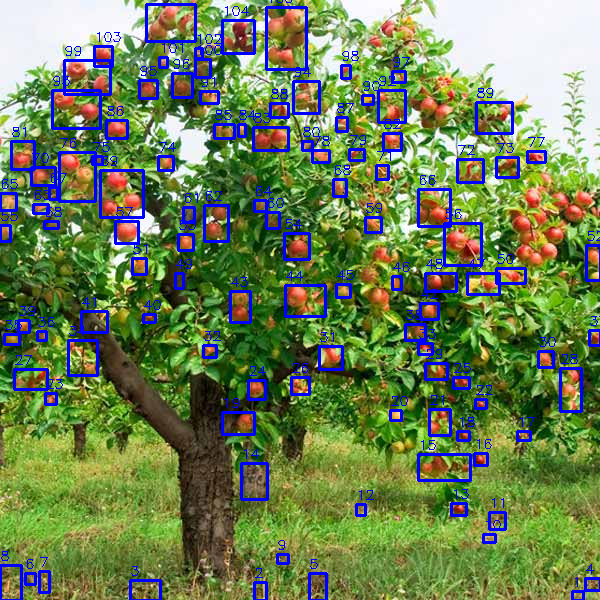
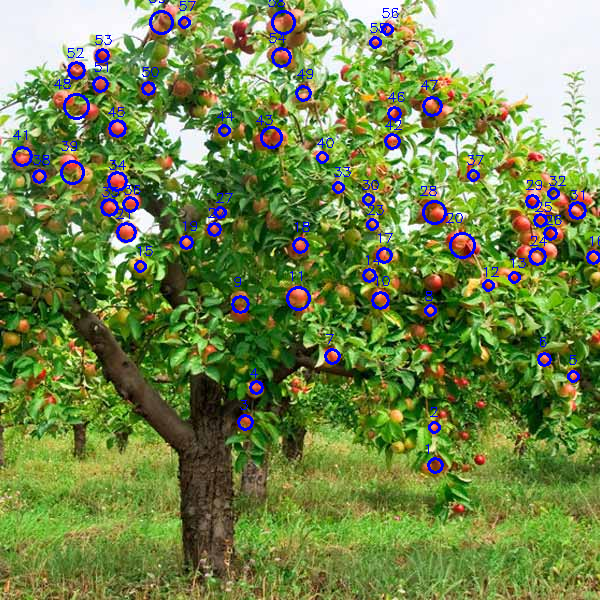
Upd

diff --git a/LAB_5/lab5_2_DS.py b/LAB_5/lab5_2_DS.py
@@ -4,13 +4,21 @@ import numpy as np
 
 IMAGE_PATH = "apple.jpg"
 
-OUTPUT_MASK = "apples_mask_counting.png"
+OUTPUT_CLUSTERED = "clustered_image.png"
+OUTPUT_APPLES_MASK = "apples_mask.png"
+OUTPUT_APPLES_SELECTED = "apples_selected.png"
 OUTPUT_RESULT = "apples_counted_result.png"
 
-MIN_OBJECT_AREA = 40
-MAX_OBJECT_AREA = 2500
+K = 5
 
-MIN_CIRCULARITY = 0.25
+MIN_OBJECT_AREA = 80
+MAX_OBJECT_AREA = 8000
+MIN_CIRCULARITY = 0.20
+
+SPLIT_CLUSTER_AREA = 500
+MIN_APPLE_RADIUS = 5
+PEAK_THRESHOLD = 0.45
+MIN_FILL_RATIO = 0.20
 
 
 image = cv2.imread(IMAGE_PATH)
@@ -20,26 +28,144 @@ if image is None:
     exit()
 
 image = cv2.resize(image, (600, 600))
-
 blurred = cv2.GaussianBlur(image, (5, 5), 0)
 
-hsv = cv2.cvtColor(blurred, cv2.COLOR_BGR2HSV)
+lab_image = cv2.cvtColor(blurred, cv2.COLOR_BGR2LAB)
 
-lower_red_1 = np.array([0, 70, 60])
-upper_red_1 = np.array([25, 255, 255])
+pixels = lab_image.reshape((-1, 3))
+pixels = np.float32(pixels)
 
-lower_red_2 = np.array([165, 70, 60])
-upper_red_2 = np.array([179, 255, 255])
+criteria = (
+    cv2.TERM_CRITERIA_EPS + cv2.TERM_CRITERIA_MAX_ITER,
+    100,
+    0.2
+)
 
-mask_1 = cv2.inRange(hsv, lower_red_1, upper_red_1)
-mask_2 = cv2.inRange(hsv, lower_red_2, upper_red_2)
+_, labels, centers = cv2.kmeans(
+    pixels,
+    K,
+    None,
+    criteria,
+    10,
+    cv2.KMEANS_RANDOM_CENTERS
+)
 
-mask = cv2.bitwise_or(mask_1, mask_2)
+centers = np.uint8(centers)
+labels = labels.flatten()
 
-kernel = np.ones((3, 3), np.uint8)
+clustered_pixels = centers[labels]
+clustered_lab = clustered_pixels.reshape(lab_image.shape)
+clustered_bgr = cv2.cvtColor(clustered_lab, cv2.COLOR_LAB2BGR)
 
-mask = cv2.morphologyEx(mask, cv2.MORPH_OPEN, kernel, iterations=1)
-mask = cv2.morphologyEx(mask, cv2.MORPH_CLOSE, kernel, iterations=2)
+centers_bgr = cv2.cvtColor(
+    centers.reshape(1, K, 3),
+    cv2.COLOR_LAB2BGR
+).reshape(K, 3)
+
+centers_hsv = cv2.cvtColor(
+    centers_bgr.reshape(1, K, 3),
+    cv2.COLOR_BGR2HSV
+).reshape(K, 3)
+
+apple_clusters = []
+
+for i in range(K):
+    h, s, v = centers_hsv[i]
+    b, g, r = centers_bgr[i]
+
+    if ((h <= 25 or h >= 165) and s > 60 and v > 80 and r > g and r > b):
+        apple_clusters.append(i)
+
+print("Apple color clusters:", apple_clusters)
+
+mask = np.zeros(labels.shape, dtype=np.uint8)
+
+for cluster_index in apple_clusters:
+    mask[labels == cluster_index] = 255
+
+mask = mask.reshape(image.shape[:2])
+
+kernel = np.ones((5, 5), np.uint8)
+
+mask = cv2.morphologyEx(mask, cv2.MORPH_OPEN, kernel)
+mask = cv2.morphologyEx(mask, cv2.MORPH_CLOSE, kernel)
+
+apples_selected = cv2.bitwise_and(image, image, mask=mask)
+
+
+def split_cluster_into_apples(cluster_mask, offset_x, offset_y):
+    apples = []
+
+    distance = cv2.distanceTransform(cluster_mask, cv2.DIST_L2, 5)
+    max_distance = distance.max()
+
+    if max_distance <= 0:
+        return apples
+
+    peaks = np.zeros(distance.shape, dtype=np.uint8)
+    peaks[distance >= PEAK_THRESHOLD * max_distance] = 255
+
+    small_kernel = np.ones((3, 3), np.uint8)
+    peaks = cv2.erode(peaks, small_kernel, iterations=1)
+
+    num_labels, components = cv2.connectedComponents(peaks)
+
+    for component_index in range(1, num_labels):
+        ys, xs = np.where(components == component_index)
+
+        if len(xs) == 0:
+            continue
+
+        component_distances = distance[ys, xs]
+        best_index = np.argmax(component_distances)
+
+        center_y = ys[best_index]
+        center_x = xs[best_index]
+        radius = int(distance[center_y, center_x])
+
+        if radius < MIN_APPLE_RADIUS:
+            continue
+
+        circle_mask = np.zeros(cluster_mask.shape, dtype=np.uint8)
+
+        cv2.circle(
+            circle_mask,
+            (center_x, center_y),
+            radius,
+            255,
+            -1
+        )
+
+        overlap = cv2.bitwise_and(cluster_mask, circle_mask)
+        filled_pixels = cv2.countNonZero(overlap)
+
+        circle_area = np.pi * radius * radius
+        fill_ratio = filled_pixels / circle_area
+
+        if fill_ratio < MIN_FILL_RATIO:
+            continue
+
+        apples.append((offset_x + center_x, offset_y + center_y, radius))
+
+    filtered_apples = []
+
+    for apple in sorted(apples, key=lambda item: item[2], reverse=True):
+        ax, ay, ar = apple
+        duplicate = False
+
+        for saved in filtered_apples:
+            sx, sy, sr = saved
+            center_distance = np.sqrt((ax - sx) ** 2 + (ay - sy) ** 2)
+
+            if center_distance < 0.7 * max(ar, sr):
+                duplicate = True
+                break
+
+        if not duplicate:
+            filtered_apples.append(apple)
+
+    return filtered_apples
+
 
 contours, _ = cv2.findContours(
     mask,
@@ -48,7 +174,6 @@ contours, _ = cv2.findContours(
 )
 
 result = image.copy()
-
 apple_count = 0
 
 for contour in contours:
@@ -57,48 +182,72 @@ for contour in contours:
     if area < MIN_OBJECT_AREA or area > MAX_OBJECT_AREA:
         continue
 
-    perimeter = cv2.arcLength(contour, True)
+    x, y, w, h = cv2.boundingRect(contour)
 
+    perimeter = cv2.arcLength(contour, True)
     if perimeter == 0:
         continue
 
     circularity = 4 * np.pi * area / (perimeter * perimeter)
-
-    if circularity < MIN_CIRCULARITY:
-        continue
-
-    x, y, w, h = cv2.boundingRect(contour)
-
     aspect_ratio = w / h
 
-    if aspect_ratio < 0.4 or aspect_ratio > 2.5:
-        continue
+    local_mask = np.zeros((h, w), dtype=np.uint8)
+    shifted_contour = contour - [x, y]
 
-    apple_count += 1
+    cv2.drawContours(local_mask, [shifted_contour], -1, 255, -1)
 
-    cv2.rectangle(
-        result,
-        (x, y),
-        (x + w, y + h),
-        (255, 0, 0),
-        2
-    )
+    found_apples = []
 
-    cv2.putText(
-        result,
-        str(apple_count),
-        (x, y - 5),
-        cv2.FONT_HERSHEY_SIMPLEX,
-        0.45,
-        (255, 0, 0),
-        1
-    )
+    if area >= SPLIT_CLUSTER_AREA:
+        found_apples = split_cluster_into_apples(local_mask, x, y)
 
-cv2.imwrite(OUTPUT_MASK, mask)
+    if len(found_apples) >= 2:
+        for cx, cy, radius in found_apples:
+            apple_count += 1
+
+            cv2.circle(result, (cx, cy), radius, (255, 0, 0), 2)
+            cv2.putText(
+                result,
+                str(apple_count),
+                (cx - radius, cy - radius - 3),
+                cv2.FONT_HERSHEY_SIMPLEX,
+                0.45,
+                (255, 0, 0),
+                1
+            )
+    else:
+        if circularity < MIN_CIRCULARITY:
+            continue
+
+        if aspect_ratio < 0.4 or aspect_ratio > 2.5:
+            continue
+
+        apple_count += 1
+
+        center_x = x + w // 2
+        center_y = y + h // 2
+        radius = int(np.sqrt(area / np.pi))
+
+        cv2.circle(result, (center_x, center_y), radius, (255, 0, 0), 2)
+        cv2.putText(
+            result,
+            str(apple_count),
+            (x, y - 5),
+            cv2.FONT_HERSHEY_SIMPLEX,
+            0.45,
+            (255, 0, 0),
+            1
+        )
+
+cv2.imwrite(OUTPUT_CLUSTERED, clustered_bgr)
+cv2.imwrite(OUTPUT_APPLES_MASK, mask)
+cv2.imwrite(OUTPUT_APPLES_SELECTED, apples_selected)
 cv2.imwrite(OUTPUT_RESULT, result)
 
-print("APPLE COUNTING RESULT")
-print("=" * 30)
-print(f"Detected apples: {apple_count}")
-print(f"Saved mask: {OUTPUT_MASK}")
-print(f"Saved result image: {OUTPUT_RESULT}")
+print("Clustering and counting finished")
+print("Saved files:")
+print(OUTPUT_CLUSTERED)
+print(OUTPUT_APPLES_MASK)
+print(OUTPUT_APPLES_SELECTED)
+print(OUTPUT_RESULT)
+print("Detected apples:", apple_count)

diff --git a/LAB_2/lab2_1_DS.py b/LAB_2/lab2_1_DS.py
@@ -1,4 +1,3 @@
-
 import numpy as np
 import matplotlib.pyplot as plt
 
